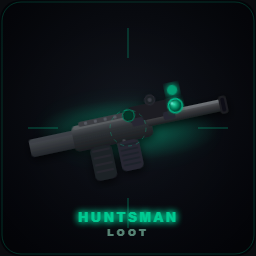
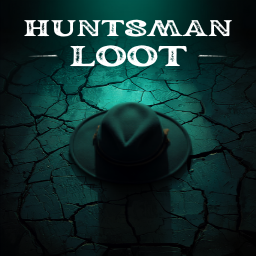
v1.1.4 — novo ícone e assets de branding

diff --git a/src/Core.cs b/src/Core.cs
@@ -1,4 +1,4 @@
-using System;
+using System;
 using System.Collections.Generic;
 using System.Linq;
 using System.Reflection;
@@ -10,7 +10,7 @@ using UnityEngine;
 
 namespace HuntsmanLoot
 {
-    [BepInPlugin("com.hiarlyscripter.huntsmanloot", "Huntsman Loot", "1.1.3")]
+    [BepInPlugin("com.hiarlyscripter.huntsmanloot", "Huntsman Loot", "1.1.4")]
     public sealed class HuntsmanLootPlugin : BaseUnityPlugin
     {
         internal static HuntsmanLootPlugin Instance { get; private set; }
@@ -65,7 +65,7 @@ namespace HuntsmanLoot
             LogReflectionStatus();
 
             new Harmony("com.hiarlyscripter.huntsmanloot").PatchAll(typeof(HuntsmanPatches));
-            Log.LogInfo("[HuntsmanLoot] v1.1.3 carregado. Patch Harmony aplicado.");
+            Log.LogInfo("[HuntsmanLoot] v1.1.4 carregado. Patch Harmony aplicado.");
         }
 
         internal static bool DebugLoggingEnabled => EnableDebugLogging != null && EnableDebugLogging.Value;

diff --git a/package/CHANGELOG.md b/package/CHANGELOG.md
@@ -2,6 +2,25 @@
 
 ---
 
+## v1.1.4 — 2026-06-20
+**Compatibilidade:** R.E.P.O. Build `23250495` · BepInEx `5.4.23.5`
+
+### 🇧🇷 PT-BR
+
+#### Visual e branding
+- Novo ícone do mod (256×256) — chapéu + espingarda no chão com glow de loot teal
+- Assets de branding adicionados: banner Thunderstore, header Nexus Mods, 3 imagens de galeria (1920×1080)
+
+---
+
+### 🇺🇸 English
+
+#### Visuals & branding
+- New mod icon (256×256) — hat + shotgun on floor with teal loot glow
+- Branding assets added: Thunderstore banner, Nexus Mods header, 3 gallery images (1920×1080)
+
+---
+
 ## v1.1.3 — 2026-06-07
 **Compatibilidade / Compatibility:** R.E.P.O. Build `23250495` · BepInEx `5.4.23.5`
 

diff --git a/NEXUS_UPLOAD_GUIDE.md b/NEXUS_UPLOAD_GUIDE.md
@@ -1,8 +1,8 @@
-# Nexus Mods Upload Guide — HuntsmanLoot v1.1.3
+# Nexus Mods Upload Guide — HuntsmanLoot v1.1.4
 
 ## Pre-upload checklist
 
-- [ ] Nexus ZIP built: `HuntsmanLoot-v1.1.3-NexusMods.zip`
+- [ ] Nexus ZIP built: `HuntsmanLoot-v1.1.4-NexusMods.zip`
 - [ ] DLL is the Release build (not Debug) — verify size ~40KB
 - [ ] Description copied from `NEXUS_DESCRIPTION.bbcode`
 - [ ] Changelog copied from `NEXUS_CHANGELOG.txt`
@@ -11,14 +11,14 @@
 
 ---
 
-## 1. Create the mod page
+## 1. Create the mod page (first time) / Update version (subsequent)
 
 URL: https://www.nexusmods.com/repo/mods/add
 
 | Field | Value |
 |---|---|
 | Mod name | HuntsmanLoot |
-| Version | 1.1.3 |
+| Version | 1.1.4 |
 | Category | Gameplay — Enemies |
 | Short description | Makes the Huntsman drop his own weapon (Hunter Gun visual) on death. |
 | Tags | BepInEx, Harmony, Drop, Loot, Enemy, Weapon, Multiplayer |
@@ -48,12 +48,12 @@ Nexus supports BBCode. The `[line]`, `[size]`, `[b]`, `[list]`, `[code]`, `[font
 
 ## 4. Files tab
 
-Upload `HuntsmanLoot-v1.1.3-NexusMods.zip` with these settings:
+Upload `HuntsmanLoot-v1.1.4-NexusMods.zip` with these settings:
 
 | Field | Value |
 |---|---|
 | File name | HuntsmanLoot |
-| Version | 1.1.3 |
+| Version | 1.1.4 |
 | File category | Main files |
 | Description | BepInEx plugin DLL — place in BepInEx/plugins/ |
 | Is main file | Yes |

diff --git a/DEVLOG.md b/DEVLOG.md
@@ -1,5 +1,11 @@
 # DEVLOG — Huntsman Loot (HiarlyScripter)
 
+## v1.1.4 — 2026-06-20
+
+Branding update. Novo ícone 256×256 via Canva (chapéu deerstalker + espingarda no chão escuro, glow teal). Assets de publicação gerados: banner Thunderstore (1300×372), header Nexus Mods (1280×720), 3 imagens de galeria (1920×1080). Nenhuma mudança no Core.cs. thunderstore.toml teve encoding de acentos corrigido (UTF-8 sem BOM, via `WriteAllText`).
+
+---
+
 ## Contexto
 
 Este mod foi desenvolvido como substituto 100% original ao `DougHRito-HunterDropsGun` v1.0.7, que parou de funcionar com REPO v0.4.x. O código foi escrito do zero, sem reaproveitamento de código-fonte do mod original.

diff --git a/package/README.md b/package/README.md
@@ -1,6 +1,6 @@
 # 🔫 Huntsman Loot
 
-[![Versão](https://img.shields.io/badge/versão-1.1.3-brightgreen?style=flat-square)](https://thunderstore.io/c/repo/p/HiarlyScripter/HuntsmanLoot/)
+[![Versão](https://img.shields.io/badge/versão-1.1.4-brightgreen?style=flat-square)](https://thunderstore.io/c/repo/p/HiarlyScripter/HuntsmanLoot/)
 [![R.E.P.O.](https://img.shields.io/badge/R.E.P.O.-Build%2023250495-blue?style=flat-square)](https://store.steampowered.com/app/3241660/REPO/)
 [![BepInEx](https://img.shields.io/badge/BepInEx-5.4.23.5-yellow?style=flat-square)](https://thunderstore.io/c/repo/p/BepInEx/BepInExPack/)
 [![Multiplayer](https://img.shields.io/badge/Multiplayer-Host%20Only-9b59b6?style=flat-square)]()
@@ -83,7 +83,7 @@ Edite em `BepInEx/config/com.hiarlyscripter.huntsmanloot.cfg` ou use o **REPOCon
 |---|---|
 | A arma não dropa | Certifique-se de que o **host** tem o mod |
 | A arma dropa várias vezes | Mantenha `MasterClientOnly = true` (padrão) |
-| Barra verde aparece na arma | Atualize para v1.1.3 |
+| Barra verde aparece na arma | Certifique-se de usar a versão mais recente |
 | Ammo aparece errada | Verifique a configuração `RandomizeAmmo` |
 
 ### 📋 Notas técnicas
@@ -171,7 +171,7 @@ Edit at `BepInEx/config/com.hiarlyscripter.huntsmanloot.cfg` or use **REPOConfig
 |---|---|
 | Weapon doesn't drop | Make sure the **host** has the mod |
 | Weapon drops multiple times | Keep `MasterClientOnly = true` (default) |
-| Green bar on weapon | Update to v1.1.3 |
+| Green bar on weapon | Make sure you are using the latest version |
 | Wrong ammo shown | Check the `RandomizeAmmo` setting |
 
 ### 📋 Technical notes

diff --git a/README.md b/README.md
@@ -1,6 +1,6 @@
 # 🔫 Huntsman Loot
 
-[![Thunderstore](https://img.shields.io/badge/Thunderstore-v1.1.3-brightgreen?style=flat-square&logo=thunderstore)](https://thunderstore.io/c/repo/p/HiarlyScripter/HuntsmanLoot/)
+[![Thunderstore](https://img.shields.io/badge/Thunderstore-v1.1.4-brightgreen?style=flat-square&logo=thunderstore)](https://thunderstore.io/c/repo/p/HiarlyScripter/HuntsmanLoot/)
 [![R.E.P.O.](https://img.shields.io/badge/R.E.P.O.-Build%2023250495-blue?style=flat-square)](https://store.steampowered.com/app/3241660/REPO/)
 [![BepInEx](https://img.shields.io/badge/BepInEx-5.4.23.5-yellow?style=flat-square)](https://thunderstore.io/c/repo/p/BepInEx/BepInExPack/)
 [![Licença](https://img.shields.io/badge/licença-crédito%20obrigatório-red?style=flat-square)](LICENSE)